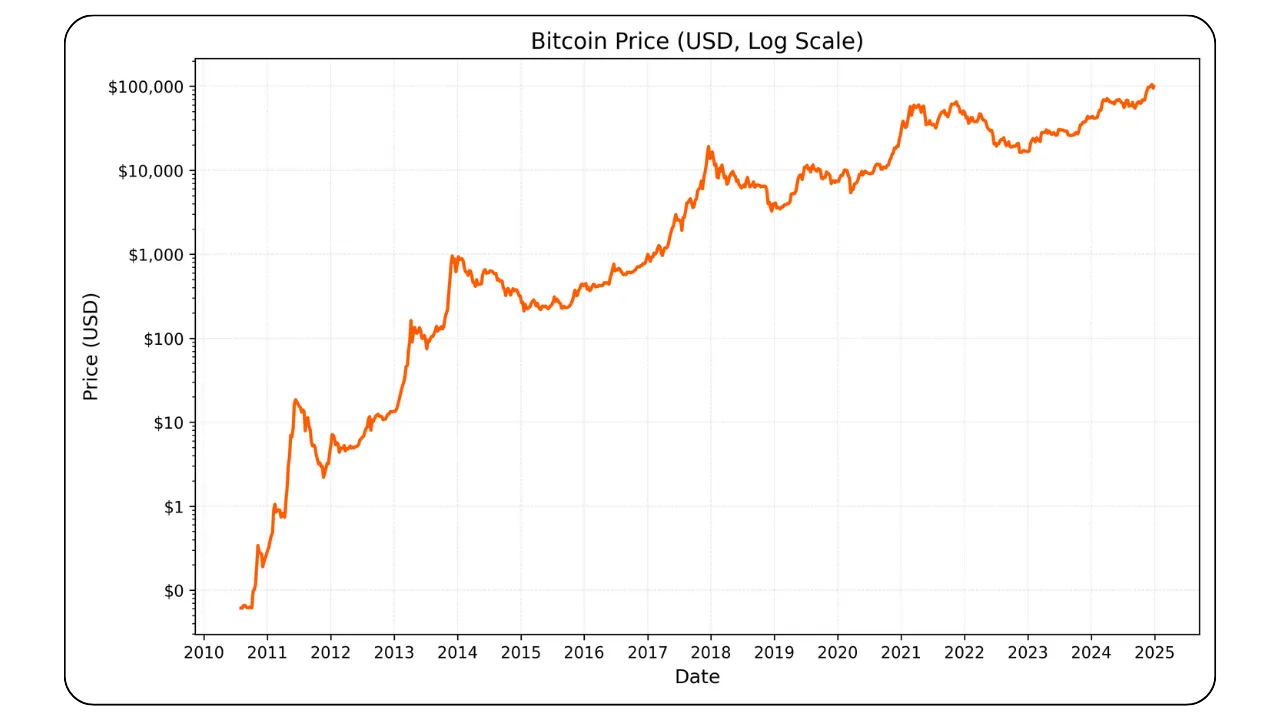
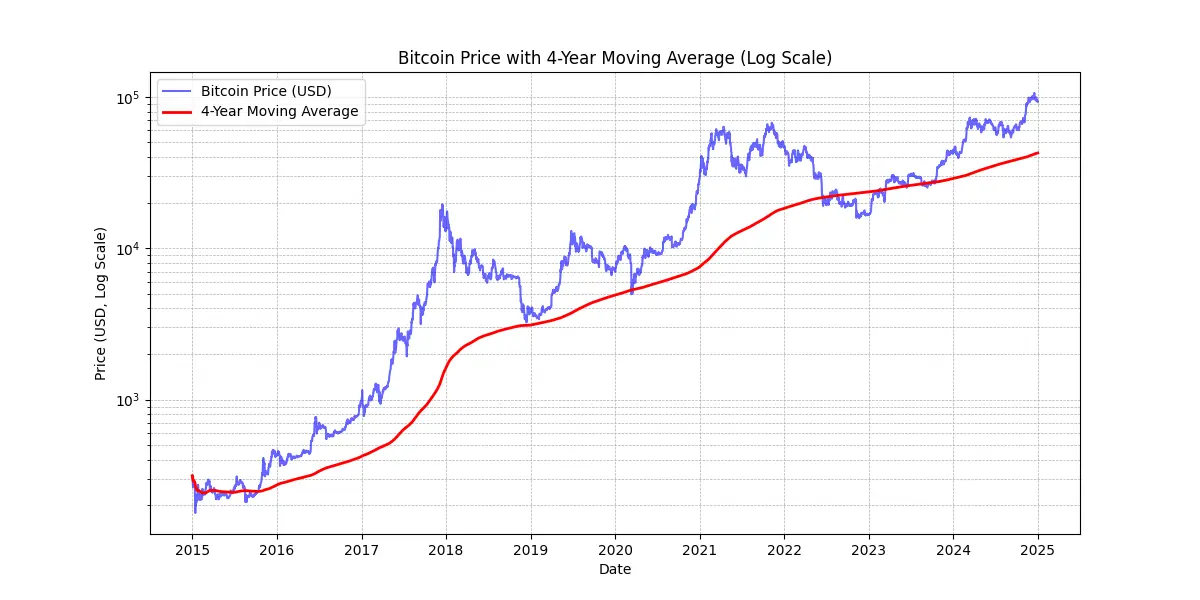
Modifs additionnelles biz101 (#1439)
* Update en.md

* Update 07.webp

* Update en.md

* Update en.md

* Update en.md

* Update en.md

---------

diff --git a/courses/biz101/en.md b/courses/biz101/en.md
@@ -472,7 +472,7 @@ Second, Bitcoin has so far experienced **4-year cycles**, meaning that with a ti
 
 ![BIZ101](assets/en/07.webp)
 
-*MICHAEL SAYLOR: "The best Bitcon price signal  is the 4 year simple moving average."* See above chart.
+*MICHAEL SAYLOR: "The best Bitcoin price signal  is the 4 year simple moving average."* See above chart.
 
 Additionally, it is advisable to keep one’s exposure to Bitcoin **proportional** to one’s level of understanding. It’s also important not to be in a rush or to try to time the market perfectly.
 
@@ -569,7 +569,7 @@ There are three ways to acquire Bitcoin:
 Since Bitcoin functions as a medium of exchange, it’s possible to envision a circular economy. Although this remains uncommon today, more and more businesses are beginning to accept Bitcoin payments—why not yours? (See our next chapter)
 
 - **Mining Bitcoin:**
-This involves earning rewards from operating mining machines. For non-specialized businesses, this remains relatively marginal. You can participate through intermediaries, such as [https://www.blobb.io/](https://www.blobb.io/). If you own the machines, you can account for them as depreciable assets. On a large scale, you’ll need to carefully calculate return on investment because the market is highly competitive and requires a good anticipation of costs, particularly electricity.
+This involves earning rewards from operating mining machines. For non-specialized businesses, this remains relatively marginal. You can participate through intermediaries which will sell or rent you the compute, network and maintenance. If you own the machines, you can account for them as depreciable assets. On a large scale, you’ll need to carefully calculate return on investment because the market is highly competitive and requires a good anticipation of costs, particularly electricity.
 
 To learn mor about mining methods, you can [consult the "mining" section in our tutorials](https://planb.network/tutorials/mining).
 
@@ -747,7 +747,7 @@ To simplify the decision-making process, we have defined four distinct business 
 | **Business Type Examples**       | E-commerce sites with moderate volume, small marketplaces, groups of physical stores (e.g., Click & Collect), SME operations                           |
 | **Payment Type**                 | Generally ranging from a few euros/dollars to a few hundred; no set payment size limit; less than 250,000 per year                                     |
 | **Settings Complexity**          | Light to fully featured (local or cloud hosting), often requires an e-commerce storefront                                                              |
-| **Example Recommended Solution** | BTC Pay Server for e-commerce and/or physical environments; ZapRite or Musqet for checkout, Be-BOP for an integrated e-store                           |
+| **Example Recommended Solution** | BTC Pay Server for e-commerce and/or physical environments; ZapRite, Musqet or PayWithFlash for checkout, Be-BOP for an integrated e-store             |
 | **Merchant Interface**           | Website (mobile and desktop) with invoice editing, shopping cart options, and payment button creation; automated invoicing with e-commerce integration |
 | **Customer Interface**           | Bitcoin QR payment code, scanned via the customer's personal wallet                                                                                    |
 | **Fees**                         | Mix of free open-source backend and paid Lightning hosting/service fees; front-end fees include Bitcoin Lightning fees and <1.5% conversion fees       |
@@ -973,7 +973,7 @@ New infrastructures succeed because they are more efficient, and early adopters 
 
 **The Comeback of the Wallet**
 
-Bitcoin and the Lightning Network are completing the **digital wallet revolution**. New web services now allow **transactions without the need to create an account**—your wallet becomes your identity! Gone are the days of account fatigue for simple purchases or subscriptions. No more need to provide personal or payment information that could end up for sale on the dark web, as we are reminded all too often by recent events.
+Bitcoin and the Lightning Network are completing the **digital wallet revolution**. New web services now allow **transactions without the need to create an account**—your wallet becomes your identity! With protocols like **Nostr Wallet Connect (NWC)** and **LN-URL-AUTH**, wallets can seamlessly authenticate users and enable transactions without traditional accounts. Gone are the days of account fatigue for simple purchases or subscriptions. No more need to provide personal or payment information that could end up being hacked and for sale on the dark web, as we are reminded all too often by recent events.
 
 ![BIZ101](assets/en/10.webp)
 